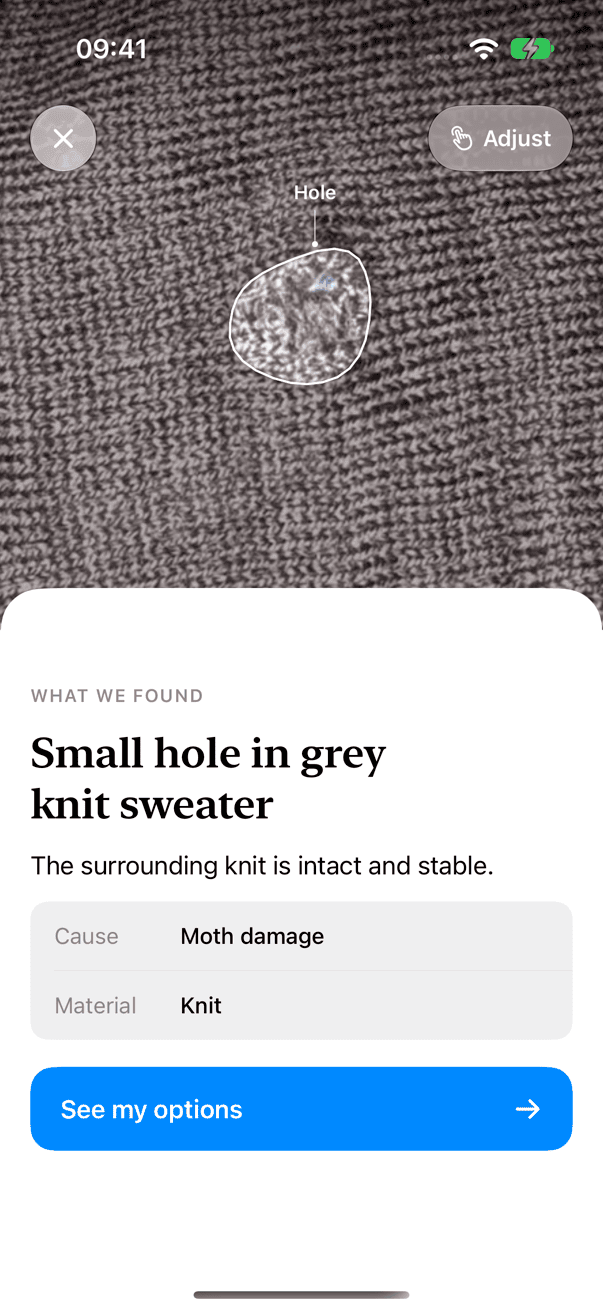
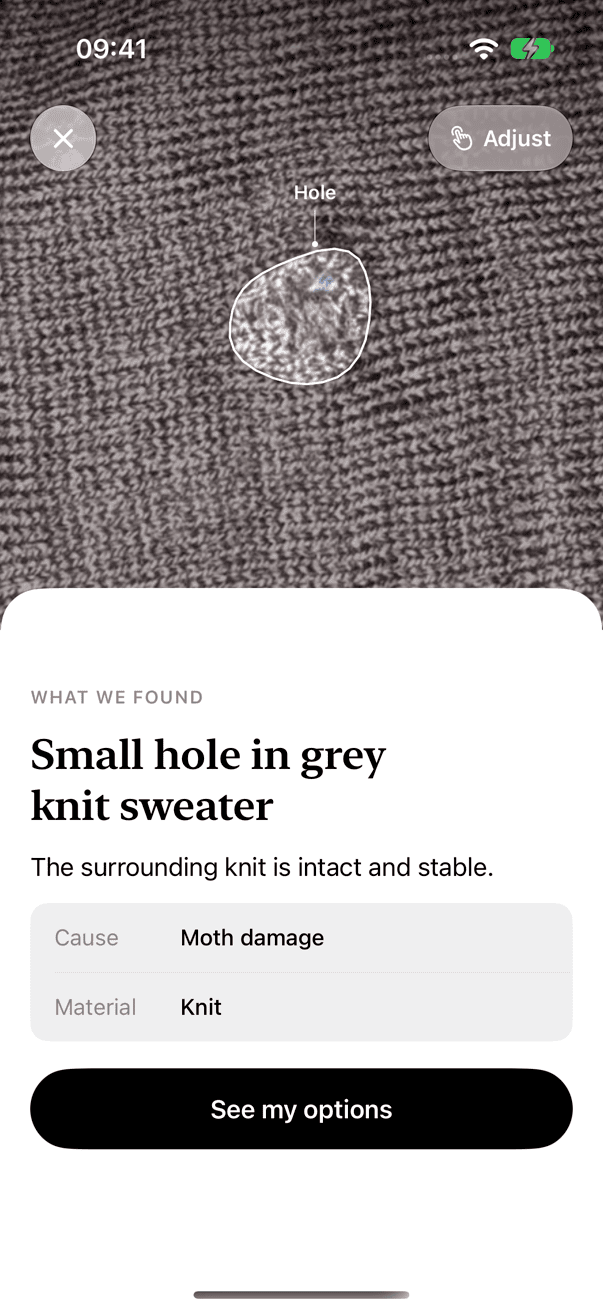
ios+proxy: keine Sicherheitsabfrage und keine Sicherheitsfloskeln mehr in der Anleitung (Owner), Prompt v8; Feinschliff Runde 7; erste Schrittbilder (Muse Image)

diff --git a/ios/RepairAssistant/Views/GuideView.swift b/ios/RepairAssistant/Views/GuideView.swift
@@ -3,7 +3,6 @@ import SwiftUI
 /// Step player: one step per screen, the stitch path / glue zone / solder points drawn on the user's own photo.
 struct GuideView: View {
     @Environment(FlowModel.self) private var flow
-    @State private var confirmed: Set<Int> = []
     @State private var showHelp = false
     @State private var forward = true
     @State private var expanded: Set<Int> = []
@@ -138,45 +137,28 @@ struct GuideView: View {
         return m
     }
 
+    /// Owner 2026-10-30: no safety checkbox or "confirm safe" gate on steps. Dangerous items are blocked before any guide exists.
     private func bottomBar(_ step: GuideStep) -> some View {
         let last = index == steps.count - 1
-        let locked = step.needsConfirmation && !confirmed.contains(step.n)
-        let on = confirmed.contains(step.n)
-        return HStack(spacing: 10) {
+        return HStack(spacing: 8) {
             Button {
                 forward = false
                 withAnimation(Theme.spring) { flow.currentStep = index - 1 }
             } label: {
-                Image(systemName: "chevron.left").font(.system(size: 17, weight: .semibold)).foregroundStyle(Theme.ink).frame(width: 32, height: 44)
+                Image(systemName: "chevron.left").font(.system(size: 17, weight: .semibold)).foregroundStyle(Theme.ink).frame(width: 36, height: 44)
             }
             .accessibilityLabel(tr("Back"))
             .opacity(index > 0 ? 1 : 0).disabled(index == 0)
-            // the safety gate always sits left of the secondary action, same compact control
-            if step.needsConfirmation {
-                Button {
-                    if on { confirmed.remove(step.n) } else { confirmed.insert(step.n); Haptics.selection() }
-                } label: {
-                    HStack(spacing: 6) {
-                        CheckCircle(on: on, size: 24)
-                        Text("Done safely").font(.footnote.weight(.medium)).foregroundStyle(Theme.ink).lineLimit(1)
-                    }
-                    .frame(minHeight: 44).contentShape(Rectangle())
-                }
-                .buttonStyle(.plain)
-                .accessibilityLabel(tr("I've done this safely"))
-                .accessibilityAddTraits(on ? .isSelected : [])
-            }
-            Spacer(minLength: 0)
             Button("Not working?") { showHelp = true }
-                .font(.footnote.weight(.medium)).foregroundStyle(Theme.thread)
-                .lineLimit(1).fixedSize().frame(minHeight: 44)
-            Button { advance(last: last) } label: { Text(last ? "Finish" : "Done") }
+                .font(.subheadline.weight(.medium)).foregroundStyle(Theme.thread)
+                .lineLimit(1).fixedSize().frame(minHeight: 44).padding(.horizontal, 6)
+            Spacer(minLength: 8)
+            Button { advance(last: last) } label: { Text(last ? "Finish" : "Done").lineLimit(1) }
                 .buttonStyle(PrimaryButtonStyle(kind: .primary))
-                .frame(width: 92)
-                .disabled(locked)
+                .frame(width: 104)
         }
         .padding(.horizontal, Theme.margin)
-        .padding(.vertical, 10)
+        .padding(.vertical, 8)
         .background(.bar)
         .overlay(alignment: .top) { Rectangle().fill(Theme.hairline).frame(height: 0.5) }
     }

diff --git a/ios/RepairAssistant/Views/HomeView.swift b/ios/RepairAssistant/Views/HomeView.swift
@@ -15,6 +15,7 @@ struct HomeView: View {
         ZStack(alignment: .bottom) {
             Theme.paper.ignoresSafeArea()
             if progress.isEmpty && done.isEmpty { emptyState } else {
+              VStack(spacing: 0) {
                 ScrollView {
                     LazyVStack(alignment: .leading, spacing: 16) {
                         tabs
@@ -34,14 +35,21 @@ struct HomeView: View {
                                     if i < done.count - 1 { Rectangle().fill(Theme.hairline).frame(height: 0.5).padding(.leading, 76) }
                                 }
                             }
+                            if done.count > 0 && done.count < 4 {
+                                Text("Finished repairs stay here with their before and after.")
+                                    .font(.footnote).foregroundStyle(Theme.inkSecondary).multilineTextAlignment(.center)
+                                    .frame(maxWidth: .infinity).padding(.top, 20)
+                            }
                         }
                     }
                     .padding(.horizontal, Theme.margin).padding(.top, 4)
                     .animation(Theme.spring, value: tab)
                 }
                 .scrollIndicators(.hidden)
-                .safeAreaInset(edge: .bottom) { Color.clear.frame(height: 150) }
-                scanButton.padding(.bottom, 24)
+                .contentMargins(.bottom, 16, for: .scrollContent)
+                // the pill sits below the list in layout, so rows can never run under it
+                scanButton.padding(.top, 12).padding(.bottom, 24)
+              }
             }
         }
         .navigationTitle("Repairs")

diff --git a/ios/RepairAssistant/Views/SettingsSheet.swift b/ios/RepairAssistant/Views/SettingsSheet.swift
@@ -16,11 +16,15 @@ struct SettingsSheet: View {
         NavigationStack {
             List {
                 Section {
-                    Toggle("Precision mode", isOn: $settings.precisionMode)
+                    NavigationLink("How Mendlet works") { HowItWorksView() }
+                    Toggle(isOn: $settings.precisionMode) {
+                        VStack(alignment: .leading, spacing: 2) {
+                            Text("Precision mode")
+                            Text("Double-checks every outline. Slower.").font(.footnote).foregroundStyle(Theme.inkSecondary)
+                        }
+                    }
                 } header: {
                     Text("Analysis")
-                } footer: {
-                    Text("Uses Muse Wonder to double-check every outline. Slower.")
                 }
                 Section {
                     Button("Delete all repairs", role: .destructive) { confirmClear = true }
@@ -30,7 +34,6 @@ struct SettingsSheet: View {
                     Text("Removes every photo and all progress from this device.")
                 }
                 Section {
-                    NavigationLink("How Mendlet works") { HowItWorksView() }
                     HStack { Text("Version"); Spacer(); Text(version).foregroundStyle(Theme.inkSecondary) }
                         .contentShape(Rectangle())
                         .onTapGesture { taps += 1; if taps >= 5 { dev = true } }

diff --git a/ios/RepairAssistant/Flow/CopyPolish.swift b/ios/RepairAssistant/Flow/CopyPolish.swift
@@ -4,6 +4,9 @@ import Foundation
 /// German text is returned untouched. No other rewriting happens on the device.
 enum CopyPolish {
     private static let hedges = ["presumably ", "assumed ", "likely ", "probably ", "apparently "]
+    /// Owner 2026-10-30: no safety boilerplate in steps (older recordings still contain it). Whole sentences starting so are dropped.
+    private static let safetyLeads = ["wear gloves", "wear disposable gloves", "ventilate", "work in a well-ventilated", "work in a ventilated",
+                                      "keep your fingers", "keep fingers", "be careful", "take care"]
 
     static func sentences(_ text: String) -> [String] {
         var out: [String] = [], cur = ""
@@ -27,7 +30,8 @@ enum CopyPolish {
         var s = raw.trimmingCharacters(in: .whitespacesAndNewlines)
         guard !s.isEmpty else { return "" }
         guard english else { return s }
-        if s.lowercased().hasPrefix("assumed ") { return "" }
+        let lower = s.lowercased()
+        if lower.hasPrefix("assumed ") || safetyLeads.contains(where: lower.hasPrefix) { return "" }
         for h in hedges { s = s.replacingOccurrences(of: h, with: "", options: .caseInsensitive) }
         s = s.replacingOccurrences(of: "looks intact", with: "is intact", options: .caseInsensitive)
         s = s.replacingOccurrences(of: "looks like", with: "is", options: .caseInsensitive)

diff --git a/ios/RepairAssistant/Views/DecisionView.swift b/ios/RepairAssistant/Views/DecisionView.swift
@@ -119,11 +119,15 @@ struct DecisionView: View {
                         Image(uiImage: after).resizable().scaledToFill()
                             .frame(width: g.size.width, height: g.size.height).clipped()
                     }
+                    .overlay(alignment: .top) {
+                        LinearGradient(colors: [.black.opacity(0.35), .clear], startPoint: .top, endPoint: .bottom)
+                            .frame(height: 120).allowsHitTesting(false)
+                    }
                     .overlay(alignment: .topTrailing) {
-                        Text("Preview").font(.caption.weight(.semibold)).foregroundStyle(.white)
-                            .padding(.horizontal, 10).padding(.vertical, 4)
-                            .background(Color.black.opacity(0.4), in: Capsule())
-                            .padding(.trailing, Theme.margin).padding(.top, geo.safeAreaInsets.top + 18)
+                        Text("Preview").font(.footnote.weight(.semibold)).foregroundStyle(Theme.ink)
+                            .padding(.horizontal, 12).frame(height: 30)
+                            .background(.regularMaterial, in: Capsule())
+                            .padding(.trailing, Theme.margin).padding(.top, geo.safeAreaInsets.top + 15)
                     }
                     .transition(.opacity)
                 } else {

diff --git a/ios/RepairAssistant/Views/DiagnosisView.swift b/ios/RepairAssistant/Views/DiagnosisView.swift
@@ -233,19 +233,10 @@ struct DiagnosisView: View {
 
     // MARK: CTA
 
-    /// The sheet's own button: an accent bar with an arrow, part of the sheet rather than a floating pill.
+    /// The sheet's own primary: the same ink capsule as everywhere else.
     private var optionsButton: some View {
-        Button { flow.go(.decision) } label: {
-            HStack {
-                Text("See my options").font(.headline)
-                Spacer()
-                Image(systemName: "arrow.right").font(.headline)
-            }
-            .foregroundStyle(.white).padding(.horizontal, 20).frame(height: 56)
-            .background(Theme.thread, in: RoundedRectangle(cornerRadius: 16, style: .continuous))
-        }
-        .buttonStyle(PressScaleStyle())
-        .padding(.top, 4)
+        PrimaryButton(title: "See my options") { flow.go(.decision) }
+            .padding(.top, 4)
     }
 
     @ViewBuilder private func ctaBar(_ r: AnalyzeResponse?) -> some View {

diff --git a/ios/RepairAssistantTests/RedesignTests.swift b/ios/RepairAssistantTests/RedesignTests.swift
@@ -48,4 +48,10 @@ final class RedesignTests: XCTestCase {
         XCTAssertTrue(c[0].closed)
         XCTAssertEqual(c[0].points.first?.y ?? 1, 0.3, accuracy: 0.02)  // starts at the top-most point
     }
+
+    func testCopyPolishDropsSafetyBoilerplate() {
+        XCTAssertEqual(CopyPolish.text("Wear gloves and ventilate the room. Apply a thin 1 mm layer of shoe adhesive."),
+                       "Apply a thin 1 mm layer of shoe adhesive.")
+        XCTAssertEqual(CopyPolish.text("Ventilate the room. Keep your fingers clear. Trim the loose ends."), "Trim the loose ends.")
+    }
 }

diff --git a/proxy/app/prompts.py b/proxy/app/prompts.py
@@ -19,7 +19,7 @@ MARKER = "\n\nJSON-Schema der Antwort (strikt einhalten, keine zusätzlichen Fel
 PROMPTS: dict[str, tuple[str, str, type[BaseModel]]] = {
     # key: (version, file name, answer model)
     "classify": ("v2", "prompt_a_classify.v2.txt", ClassifyResult),
-    "diagnose": ("v7", "prompt_b_diagnose.v7.txt", DiagnosePlan),
+    "diagnose": ("v8", "prompt_b_diagnose.v8.txt", DiagnosePlan),
     "step_help": ("v2", "prompt_c_step_help.v2.txt", StepHelpResponse),
 }
 

diff --git a/proxy/tests/test_budget_cache_prompts.py b/proxy/tests/test_budget_cache_prompts.py
@@ -56,7 +56,7 @@ def test_schema_preserves_actual_title_property():
     step = inline_schema(DiagnosePlan)['properties']['guide']['properties']['steps']['items']
     assert step['properties']['title'] == {'type': 'string'}
     assert set(step['required']) <= set(step['properties'])
-    assert prompt_version('diagnose') == 'v7'
+    assert prompt_version('diagnose') == 'v8'
 
 
 def test_prompt_b_v3_label_and_safety_rules():

diff --git a/proxy/tests/test_locale.py b/proxy/tests/test_locale.py
@@ -29,7 +29,7 @@ def test_norm_falls_back_to_german():
 
 
 def test_prompt_versions_and_language_placeholder():
-    assert prompt_version("diagnose") == "v7"
+    assert prompt_version("diagnose") == "v8"
     en, de = load_prompt("diagnose", locale="en"), load_prompt("diagnose", locale="de")
     assert "Write all user-facing texts in English" in en
     assert "Write all user-facing texts in German" in de
